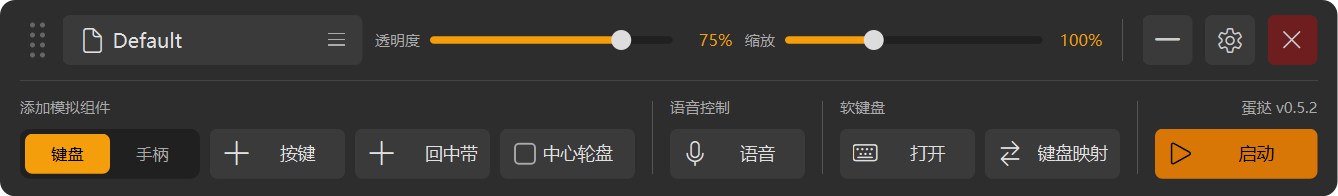
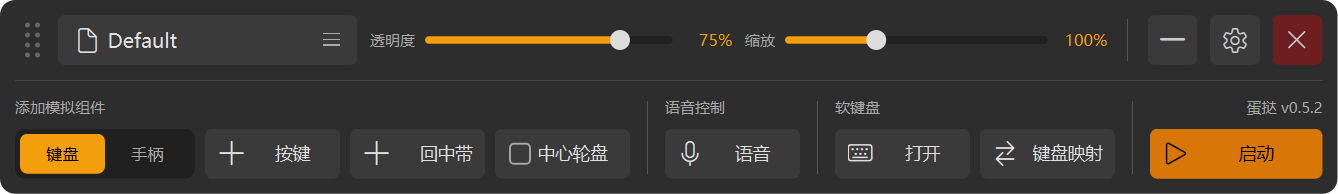
refactor(ui): equalize edit toolbar outer padding

diff --git a/docs/ui-review.html b/docs/ui-review.html
@@ -24,7 +24,7 @@
   <article><h3>软键盘 · 标准 12 px 外框圆角</h3><a href="ui-running-keyboard.png"><img src="ui-running-keyboard.png" alt="运行中的软键盘，标准外框圆角"></a></article>
   <article><h3>轮盘设置齿轮 · 按实际图形边界居中</h3><a href="ui-wheel-gear-centered.png"><img src="ui-wheel-gear-centered.png" alt="放大检查的居中齿轮" style="max-width:180px"></a><small>设置与缩放位于轮盘内容之上、普通操作控件之下；被覆盖处的点击交给前面的控件。</small></article>
   <div class="grid">
-   <article><h3>键盘模式 · 1070×157</h3><a href="ui-client-EditToolbar.png"><img src="ui-client-EditToolbar.png" alt="键盘模拟模式"></a></article>
+   <article><h3>键盘模式 · 1070×155 / 四周边距 12 px</h3><a href="ui-client-EditToolbar.png"><img src="ui-client-EditToolbar.png" alt="键盘模拟模式"></a></article>
    <article><h3>手柄模式 · 同宽，入口随模式变化</h3><a href="ui-client-EditToolbar-gamepad.png"><img src="ui-client-EditToolbar-gamepad.png" alt="手柄模拟模式"></a></article>
   </div>
   <article style="margin-top:18px"><h3>运行工具栏 · 160 px 纯文字方案 / 14 px 字号</h3><a href="ui-running-run-toolbar.png"><img src="ui-running-run-toolbar.png" alt="客户端运行工具栏组件，方案名称去掉图标"></a><small>客户端现有运行组件截图，预览不启动输入监听。</small></article>

diff --git a/views/edit_toolbar.py b/views/edit_toolbar.py
@@ -315,7 +315,7 @@ class EditToolbar(QWidget):
         container.setStyleSheet(f"QFrame#et_container {{ background: {C_PANEL}; border: none; border-radius: {OUTER_RADIUS}px; }}")
         outer.addWidget(container)
         main = QVBoxLayout(container)
-        main.setContentsMargins(16, 12, 16, 14)
+        main.setContentsMargins(12, 12, 12, 12)
         main.setSpacing(12)
         header = QHBoxLayout()
         header.setSpacing(10)

diff --git a/docs/ui-redesign-plan.md b/docs/ui-redesign-plan.md
@@ -74,6 +74,11 @@
 - 运行栏方案名称区域从 240 px 收窄到 160 px；14 px 字号下，常见游戏名称加操作方式约 110～130 px，160 px 留有适度空间。固定宽度保持切换方案时右侧入口稳定，特别长的名称继续省略并保留全文提示。
 - 运行栏总宽随内容减少 80 px，保留 60 px 高度、全部原有按钮和拖动 / 定位行为。复用现有中英文长名称及 1920×1080 定位检查。
 
+## 最新调整：编辑工具栏等边距
+
+- 编辑工具栏外层留白从左 / 右 16 px、上 12 px、下 14 px，统一为四周 12 px。底部模式槽与启动按钮分别对齐左右 12 px 留白，顶部按钮距上沿和底部按钮距下沿也为 12 px。
+- 中文两种模式保持 1070 px 宽，高度为 155 px；组间距离、内部按钮尺寸与全部操作保持原样。核对中英文两种模式，并通过现有模式切换、同宽入口、长名称 / 软键盘状态及拖动检查。
+
 ## 分支与基线
 
 - 分支：`feature/ui-inputegg`，基于本地 `main`，基线提交 `2b91464`。
